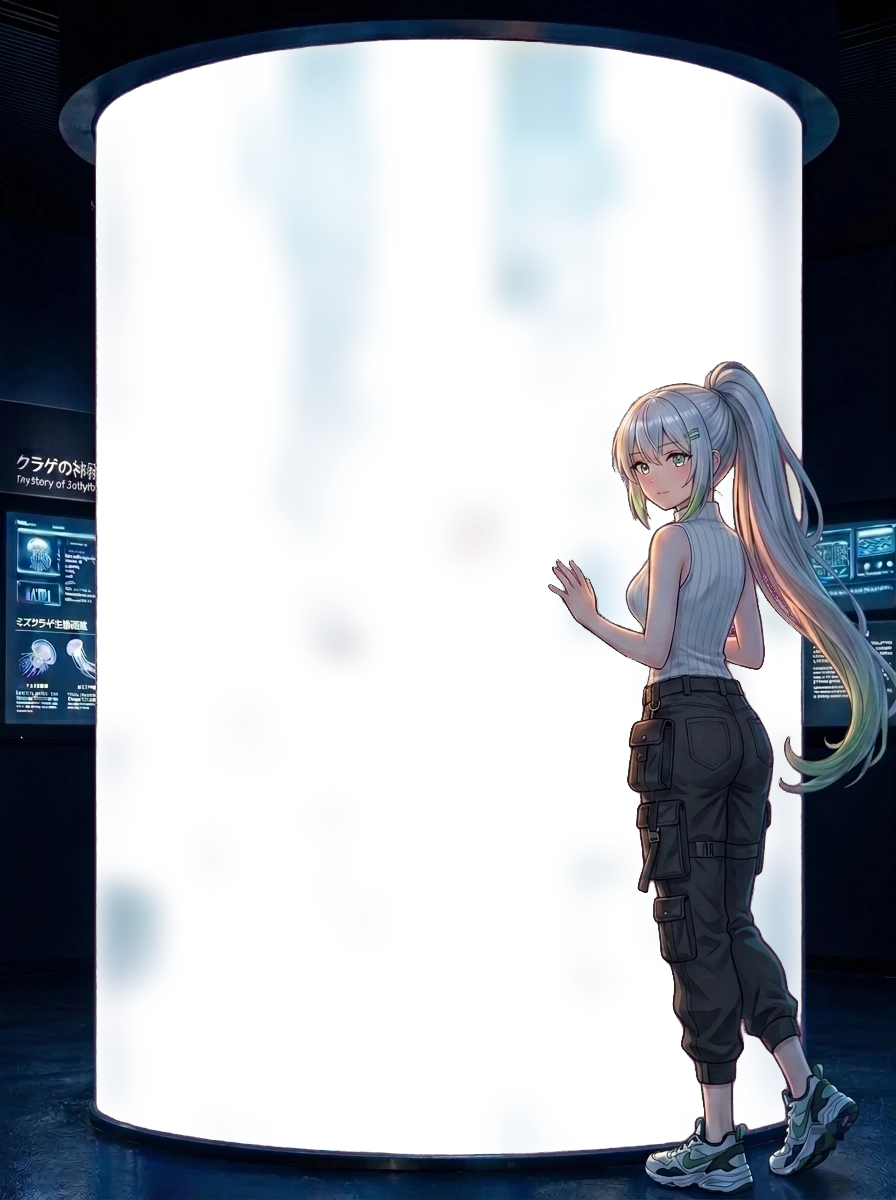
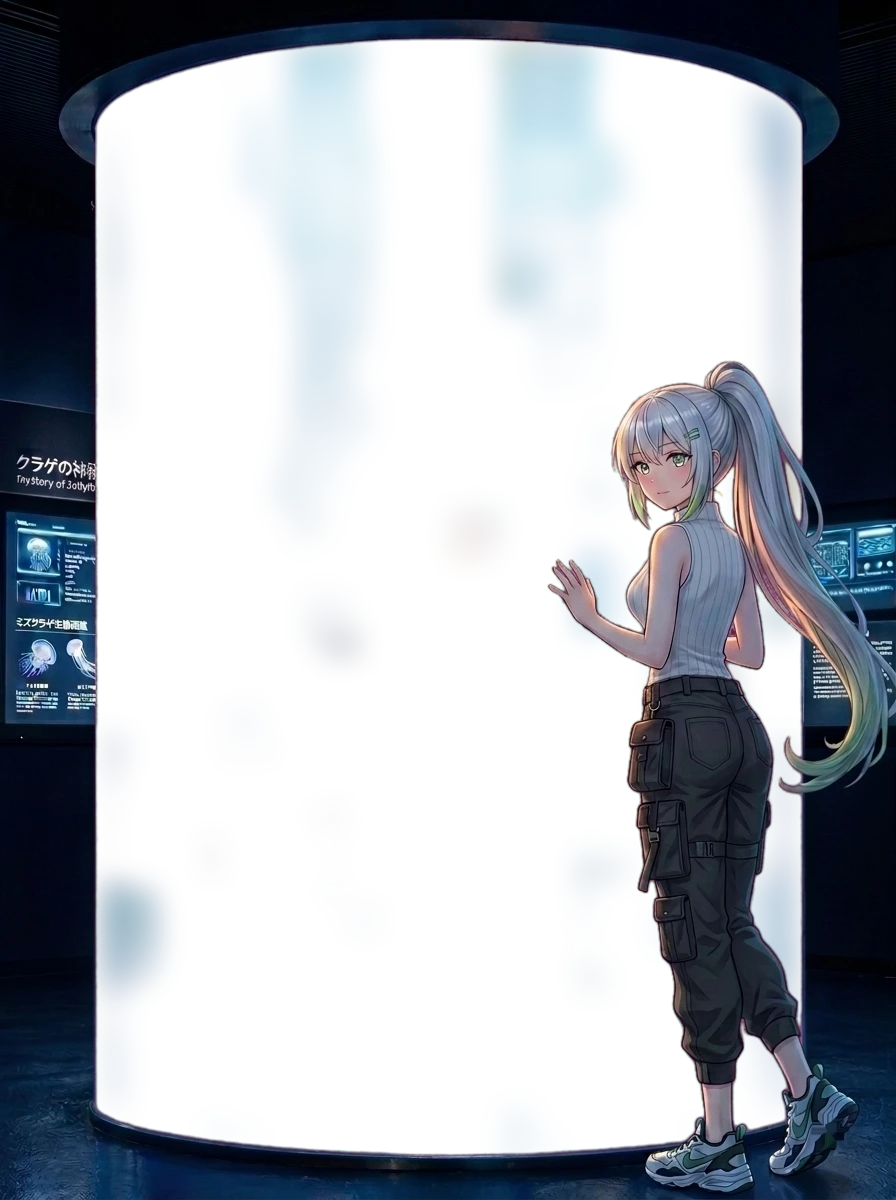
Antialias the girl, unpaint the animals, and put the ruffle in the silhouette
Her outline measured 6, 127, 255 across three consecutive pixels — the
coverage ramp is there but one pixel wide, which is a hard edge with a
single grey pixel on it, and that is the staircase down her arm. The ramp
cannot be widened: it is tight because her pink hair sits 55 to 110 from
the key. So the coverage is reconstructed instead, with a one-pixel tent
over the field — flat away from an edge, and across one it gives the
intermediate values an antialiased silhouette needs.

The lamp was repainting the animals. It went to full strength, so for
most of every two-minute cycle the tank had no orange in it at all; the
bells are the one hot thing in a cold picture and the composition rests
on that contrast. Capped at a bit over a third. The bell's ground is also
pigmented now rather than six parts pale tissue to one of colour, which
is what was making them pink.

And the oral arms have their ruffle in the geometry. Three attempts put
it in the shading — stripes on a straight strip — and it kept reading as
a painted band, because what you recognise from across a room is the torn
lumpy *outline*. The width now varies along the arm at two incommensurate
rates, and the arm twists: a frilled sheet turns over on itself every few
centimetres, and since the ribbon is billboarded a twist is exactly a
periodic collapse of its width, which is why a real one looks like a run
of separate scraps when it is one sheet.
[…]

Changed region(s): [[0.8438, 0.4933, 0.875, 0.5242]]

diff --git a/app/src/scene/jellyfish.ts b/app/src/scene/jellyfish.ts
@@ -359,8 +359,11 @@ const bellFragment = /* glsl */ `
                    * smoothstep(0.86, 0.99, vRim);
 
     float organs = clamp(0.62 * pouch + 0.78 * gonad + 0.9 * rhopalia, 0.0, 1.0);
-    float stain = clamp(0.16 + 0.86 * mark + 0.30 * smoothstep(0.80, 1.0, vRim)
-                        + 0.70 * organs, 0.0, 1.0);
+    // The ground is pigmented too, not only the bands. At 0.16 the bell was
+    // six parts pale tissue to one part colour and came out *pink*; the
+    // reference's are orange all over, with the bands darker orange over it.
+    float stain = clamp(0.80 + 0.20 * mark + 0.10 * smoothstep(0.80, 1.0, vRim)
+                        + 0.20 * organs, 0.0, 1.0);
     vec3 col = mix(flesh, pigment, stain);
 
     /*
@@ -454,6 +457,22 @@ const bellFragment = /* glsl */ `
     // water ramp, so it is the water's blue and not a light invented here.
     float edge = pow(facing, 6.0);
     col += texture2D(uWaterRamp, vec2(0.92, 0.5)).rgb * edge * (0.55 + 0.45 * lit) * 1.5;
+
+    /*
+     * Saturation (item 1).
+     *
+     * The reference's bells are the one hot thing in a cold picture: a
+     * near-vermilion orange against cyan water, complementary and at full
+     * chroma, and they read as light sources rather than as objects because of
+     * it. The measured ramp has that chroma in it — the population it was taken
+     * from is those bells — but the shading term spends most of its time in the
+     * ramp's middle, and the middle of any measured population is where the
+     * chroma has been averaged down. Expanded about the fragment's own
+     * luminance, so the chroma rises and the tone does not move: nothing about
+     * the picture's exposure changes.
+     */
+    float bellLum = dot(col, vec3(0.2126, 0.7152, 0.0722));
+    col = max(vec3(0.0), mix(vec3(bellLum), col, 1.45));
 
     float body = 0.20 + 0.46 * facing + 0.30 * smoothstep(0.62, 1.0, vRim);
     // The far surface of the same bell, at a third the weight: it is behind a
@@ -585,9 +604,12 @@ const veilVertex = /* glsl */ `
   attribute float aAlong;
   attribute vec3 aTangent;
   uniform float uWidth;
+  uniform float uFrill;
+  uniform float uSeed;
   uniform vec3 uCamPos;
   varying float vAlong;
   varying float vSide;
+  varying float vTurn;
   varying vec3 vWorld;
 
   void main() {
@@ -597,6 +619,35 @@ const veilVertex = /* glsl */ `
     // Tapered: an oral arm is widest where it leaves the bell and comes to
     // nothing at the tip.
     float w = uWidth * (1.0 - aAlong) * (1.0 - aAlong * 0.4);
+
+    /*
+     * The ruffle, in the *silhouette* — which is the thing three attempts at
+     * this missed and the reference makes obvious.
+     *
+     * Zoom into 1786667042546.png and an oral arm is a strip of white crepe
+     * paper: its edge is torn, lumpy and scalloped, never straight for the
+     * length of a bell, and it is that ragged outline you recognise from across
+     * a room. Every version of this so far drew a smooth-edged ribbon and put
+     * the frill in the *shading* — stripes on a straight strip — which is why
+     * it kept reading as a painted band however the brightness was tuned.
+     *
+     * Two things do it, and both have to be in the geometry:
+     *
+     *  - the width varies along the arm at two incommensurate rates, so the
+     *    edge is a run of lobes and pinches rather than a taper.
+     *  - the arm twists. A frilled sheet in water turns over on itself every
+     *    few centimetres, and each time it turns edge-on it nearly disappears
+     *    and then opens out again. The ribbon is billboarded at the camera, so
+     *    a twist is exactly a periodic collapse of its width — which is also
+     *    why a real one looks like a run of separate scraps when it is one
+     *    continuous sheet.
+     */
+    float lobes = 0.60 + 0.40 * sin(aAlong * 26.0 + uSeed * 6.28)
+                       + 0.20 * sin(aAlong * 61.0 - uSeed * 3.10);
+    float twist = 0.28 + 0.72 * abs(cos(aAlong * 8.5 + uSeed * 5.7));
+    w *= mix(1.0, lobes * twist, uFrill);
+    vTurn = twist;
+
     world += side * aSide * w;
     vAlong = aAlong;
     vSide = aSide;
@@ -609,6 +660,7 @@ const veilFragment = /* glsl */ `
   precision highp float;
   varying float vAlong;
   varying float vSide;
+  varying float vTurn;
   varying vec3 vWorld;
   uniform sampler2D uRamp;
   uniform sampler2D uWaterRamp;
@@ -647,7 +699,12 @@ const veilFragment = /* glsl */ `
     // light, and it holds that brightness most of the way down its length —
     // the old fall of 0.32 with distance had the ribbon fading out half way,
     // which is what a tentacle does, not an arm.
-    float s = 0.30 + 0.34 * lit + uFrill * (0.16 + 0.22 * frill) - (0.32 - 0.10 * uFrill) * vAlong
+    // High contrast, because the reference's arms are nearly black and white: a
+    // fold turned to the light goes to paper-white and the crease beside it
+    // drops to the water's own dark blue. One tone with a gentle ripple on it
+    // is a ribbon; this is lace.
+    float s = 0.30 + 0.34 * lit + uFrill * (0.30 * frill + 0.34 * vTurn)
+            - (0.32 - 0.10 * uFrill) * vAlong
             + (1.0 - uFrill) * 0.16;
     float banded = floor(s * 5.0 + 0.5) / 5.0;
     s = clamp(mix(s, banded, 0.4), 0.0, 1.0);
@@ -700,7 +757,9 @@ const veilFragment = /* glsl */ `
     // still drive the opacity — that is what makes an edge ragged rather than
     // cut — but they drive it between a half and a whole rather than between
     // nothing and a third.
-    float lace = 0.09 + 0.34 * pow(frill, 1.7);
+    // Denser where the sheet is face-on, nearly gone where the twist has turned
+    // it edge-on, so the arm breaks into scraps the way the painted one does.
+    float lace = (0.16 + 0.55 * pow(frill, 1.4)) * (0.30 + 0.70 * vTurn);
     float a = uFade * (1.0 - vAlong * (0.72 - 0.22 * uFrill)) * mix(0.52, lace, uFrill);
     gl_FragColor = vec4(col, a);
     if (uMode > 0.5) gl_FragColor = vec4(vec3(circleOfConfusion(vWorld, uCamPos)), step(0.02, a));
@@ -914,7 +973,8 @@ export function createJellyfish(opts: JellyfishOptions, shared: {
         // Wide. An oral arm in the reference is most of a bell across at the
         // mouth, not a tenth of one — it is a ribbon, and its width is what
         // makes it read as tissue rather than as string.
-        uWidth: { value: kind === 'arm' ? size * (species === 'bell' ? 0.34 : 0.24) : size * 0.011 },
+        uSeed: { value: rand(seed, 2) },
+        uWidth: { value: kind === 'arm' ? size * (species === 'bell' ? 0.54 : 0.38) : size * 0.011 },
         uCamPos: { value: shared.camPos },
         uRamp: { value: shared.veil },
         uLed: { value: LED_JELLY },

diff --git a/scripts/plate.js b/scripts/plate.js
@@ -362,6 +362,44 @@ async function main() {
   // Which pixels were filled, kept because the fill loop clears the flag as it
   // goes: a filled pixel is fully painted whatever its coverage measured, since
   // what it measured was the key running over her.
+  /*
+   * Antialias the matte.
+   *
+   * Measured across her arm, the coverage went 6, 127, 255 in three
+   * consecutive pixels: the ramp is *there* but it is one pixel wide, which is
+   * a hard edge with a single grey pixel on it — and a hard edge on a figure
+   * this size is the ジャギジャギ staircase down her arm and her ponytail.
+   *
+   * The ramp cannot simply be widened. It is held tight (KEY_IN/KEY_OUT above)
+   * because her pink hair lives 55 to 110 from the key and a loose tolerance
+   * eats the strands. What can be done instead is to reconstruct the coverage
+   * the way an antialiased edge would have measured it: a one-pixel tent over
+   * the coverage field. Away from an edge the field is flat 0 or flat 1 and a
+   * blur changes nothing; across one it gives the two or three intermediate
+   * values the silhouette needs to stop being a staircase.
+   *
+   * One pixel and no more. Two is a halo.
+   */
+  const softCover = new Float32Array(W * H);
+  for (let y = 0; y < H; y++) {
+    for (let x = 0; x < W; x++) {
+      let sum = 0, n = 0;
+      for (let dy = -1; dy <= 1; dy++) {
+        for (let dx = -1; dx <= 1; dx++) {
+          const yy = Math.min(H - 1, Math.max(0, y + dy));
+          const xx = Math.min(W - 1, Math.max(0, x + dx));
+          // A tent rather than a box: the centre pixel keeps most of its own
+          // value, so a one-pixel feature is softened and not erased.
+          const w = (dx === 0 ? 2 : 1) * (dy === 0 ? 2 : 1);
+          sum += paintCover[yy * W + xx] * w;
+          n += w;
+        }
+      }
+      softCover[y * W + x] = sum / n;
+    }
+  }
+  paintCover.set(softCover);
+
   const inpaintedAt = Uint8Array.from(inpaint);
   const paint = Buffer.from(keyed.data);
   for (let pass = 0; pass < 40; pass++) {

diff --git a/app/src/core/dof.ts b/app/src/core/dof.ts
@@ -42,22 +42,38 @@ export const FOCUS = { value: EYE_DISTANCE - 0.62 };
  * whole tank is only two radii deep, and a range much tighter than this puts
  * the entire far half at maximum blur, which reads as fog rather than as
  * a lens. */
-export const RANGE = { value: 2.35 };
+export const RANGE = { value: 1.85 };
+
+/**
+ * How much less the near side of focus blurs than the far side.
+ *
+ * A real lens is symmetric about its focal plane and this is not, for the
+ * reason the reference shows: its far animals are big soft orange discs, which
+ * is most of the light in the top half of that picture, while nothing in front
+ * of the focal plane is blurred at all — because there is nothing there.
+ * Blurring the near half buys nothing and costs the sharpest animals in the
+ * tank.
+ */
+export const NEAR_BIAS = { value: 0.22 };
 
 /** Dropped into every shader that draws inside the tank. */
 export const COC_GLSL = /* glsl */ `
   uniform float uMode;
   uniform float uFocus;
   uniform float uRange;
+  uniform float uNearBias;
 
   float circleOfConfusion(vec3 world, vec3 eye) {
-    return clamp(abs(distance(world, eye) - uFocus) / uRange, 0.0, 1.0);
+    float d = distance(world, eye) - uFocus;
+    // Behind the focal plane it blurs in full; in front of it, barely.
+    float signed = d > 0.0 ? d : -d * uNearBias;
+    return clamp(signed / uRange, 0.0, 1.0);
   }
 `;
 
 /** The three uniforms COC_GLSL declares, for a material's uniform block. */
 export function cocUniforms() {
-  return { uMode: RENDER_MODE, uFocus: FOCUS, uRange: RANGE };
+  return { uMode: RENDER_MODE, uFocus: FOCUS, uRange: RANGE, uNearBias: NEAR_BIAS };
 }
 
 /**
@@ -82,7 +98,7 @@ export const DofShader = {
      * is two radii deep and the animals in it are 40 to 80 px across, so a
      * radius past three or four stops reading as a lens and starts reading as
      * a smudge. */
-    uMaxRadius: { value: 3.2 },
+    uMaxRadius: { value: 8.0 },
   },
   vertexShader: /* glsl */ `
     varying vec2 vUv;

diff --git a/app/src/main.ts b/app/src/main.ts
@@ -64,7 +64,9 @@ new THREE.TextureLoader().load(`${import.meta.env.BASE_URL}plate.webp`, (texture
  */
 let plateReady = false;
 function revealWhenReady(): void {
-  if (!plateReady || simTime < 2.5) return;
+  // The scene is already settled before the first frame (the warm-up below),
+  // so the only thing left to wait for is the painting.
+  if (!plateReady) return;
   document.querySelector('.stage')?.classList.add('ready');
 }
 
@@ -118,6 +120,21 @@ if (frozenAt !== null) {
   while (simTime < target) step(STEP);
   swarm.sortForCamera(camera);
   postFx.render();
+}
+
+/*
+ * The warm-up.
+ *
+ * The tank was black for three seconds on load, which is long enough to think
+ * the page is broken. The wait was real work — a Verlet chain has no shape
+ * until the water has bent it, so an unsettled tank shows every tentacle
+ * hanging dead straight — but there is no reason to do that work in real time.
+ * Six seconds of simulation runs in a fraction of one, the same way the frozen
+ * ?t= path catches up above, and the picture is then ready on the first frame
+ * the browser draws.
+ */
+if (frozenAt === null) {
+  for (let i = 0; i < 360; i++) step(STEP);
 }
 
 function frame(now: number): void {

diff --git a/app/src/scene/led.ts b/app/src/scene/led.ts
@@ -54,7 +54,18 @@ export function setLed(v: number): void {
   // the lamp cannot brighten or darken the tank — only colour it.
   strong.setHSL(0.86 - v * 0.50, 0.95, 0.55);
   strong.multiplyScalar(1 / Math.max(1e-3, REC709(strong)));
-  LED_JELLY.set(strong.r, strong.g, strong.b, Math.min(1, v * 1.15));
+  /*
+   * The lamp leans the animals; it does not repaint them.
+   *
+   * This used to go to full strength — at v past 0.87 an animal's own colour
+   * was gone and it *was* the lamp — and since the wheel turns continuously,
+   * that meant the tank spent most of every two-minute cycle with no orange in
+   * it at all. The bells are the one hot thing in a cold picture and the whole
+   * composition rests on that complementary contrast (see the reference); a
+   * lamp that can delete it is a lamp turned up too far. Capped at a bit over
+   * a third, which is still unmistakable when the wheel comes round.
+   */
+  LED_JELLY.set(strong.r, strong.g, strong.b, Math.min(0.38, v * 0.44));
   // 0.86 is magenta, 0.36 is green, and the knob walks between them.
   LED.setHSL(0.86 - v * 0.50, 0.62, 0.60);
   LED.multiplyScalar(1 / Math.max(1e-3, REC709(LED)));

diff --git a/app/src/scene/decks.ts b/app/src/scene/decks.ts
@@ -70,7 +70,7 @@ const fragmentShader = /* glsl */ `
     // nothing, which is what puts the two of them at different tones and stops
     // the tank looking like a tube with two identical caps.
     float lit = descent(vWorld.y) * shaft(vWorld, uTime, uFlow);
-    base *= 1.0 + (uFacing > 0.0 ? 0.55 : 0.15) * lit;
+    base *= 1.0 + (uFacing > 0.0 ? 0.85 : 0.15) * lit;
 
     /*
      * Caustics.
@@ -106,7 +106,7 @@ const fragmentShader = /* glsl */ `
     // and absent where none does — which is what ties the pattern on the floor
     // to the columns standing over it.
     float reach = uFacing > 0.0 ? 1.0 : 0.20;
-    base += texture2D(uWaterRamp, vec2(0.97, 0.5)).rgb * caustic * lit * reach * 1.5;
+    base += texture2D(uWaterRamp, vec2(0.97, 0.5)).rgb * caustic * lit * reach * 5.2;
 
     // The rim, which is the whole point of the exercise.
     //

diff --git a/app/src/effects/plateShader.ts b/app/src/effects/plateShader.ts
@@ -159,7 +159,7 @@ export const PlateShader = {
       // Sharpened once more, so the line has a core rather than a shoulder.
       spec *= spec;
       float breathe = 0.72 + 0.28 * sin(uTime * 0.21 + vUv.y * 5.3);
-      col += vec3(0.86, 0.93, 1.0) * spec * breathe * 0.46;
+      col += vec3(0.86, 0.93, 1.0) * spec * breathe * 0.95;
 
       gl_FragColor = vec4(col, 1.0);
     }
